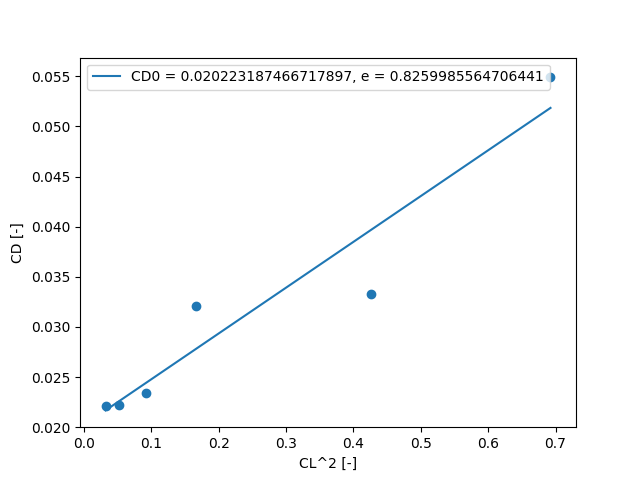
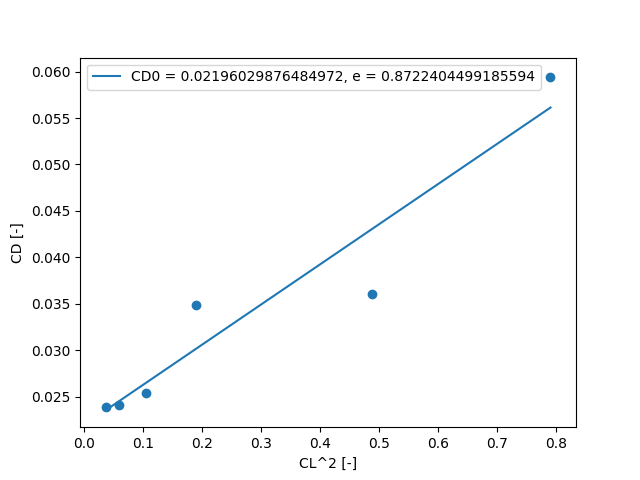
Some fixes

diff --git a/domas/stationary.py b/domas/stationary.py
@@ -77,7 +77,7 @@ g      = 9.81            # [m/sec^2] (gravity constant)
 
 # Added
 p0 = 101325 #[N/m2]
-a = 343 #[m/s]
+
 
 # air density [kg/m^3]  
 rho    = rho0 * ((1+(labda * hp0 / Temp0)))**(-((g / (labda*R)) + 1))   
@@ -92,12 +92,12 @@ M_calc_3 = (1 + p0/p * M_calc_2) ** ((gamma - 1) / gamma) - 1
 M = np.sqrt(2 / (gamma - 1) * M_calc_3)
 
 T = Tmeas / (1 + (gamma - 1) / 2 * M**2)
-
+a = np.sqrt(gamma * R * T)
 Vt = M * a
 Ve = Vt * np.sqrt(rho / rho0)
 
 # Lift coefficient
-CL = 2 * W / (rho * Vt ** 2 * S)              # Lift coefficient [ ]
+CL = 2 * W / (rho * Vt**2 * S)              # Lift coefficient [ ]
 
 #Plotting and finding CLa
 CLa, intercept, uu_r_value, uu_p_value, uu_std_err = stats.linregress(alpha_deg,CL) # Lots of unused (uu_) values
@@ -120,20 +120,18 @@ plt.clf()
 # CD calculations
 T_ISA = Temp0 + labda * hp0
 DeltaT = T - T_ISA
-rnd = 4
 with codecs.open('matlab.dat','w',encoding='utf8') as f:
     for i in range(n_tests):
-        str1 = str(round(hp0[i],rnd))+'\t'
-        str2 = str(round(M[i],rnd))+'\t'
-        str3 = str(round(DeltaT[i],rnd))+'\t'
-        str4 = str(round(FFl[i],rnd))+'\t'
-        str5 = str(round(FFr[i],rnd))+'\r\n'
+        str1 = str(hp0[i])+'\t'
+        str2 = str(M[i])+'\t'
+        str3 = str(DeltaT[i])+'\t'
+        str4 = str(FFl[i])+'\t'
+        str5 = str(FFr[i])+'\r\n'
         strtot = str1+str2+str3+str4+str5
         f.write(strtot)
     f.close()
 
-# This doesn't work on my device, sadly
-os.system('java -jar Thrust.jar')
+os.system('java -jar thrust.jar')
 
 #dummy = input("Press any key when thrust.dat is updated.")
 
@@ -142,7 +140,7 @@ T1 = infile[0]
 T2 = infile[1]
 Ttotal = T1 + T2
 
-CD = 2 * Ttotal / (rho * Vt ** 2 * S) 
+CD = 2 * Ttotal / (rho * Vt ** 2 * S)
 
 CL_sq = CL**2
 
